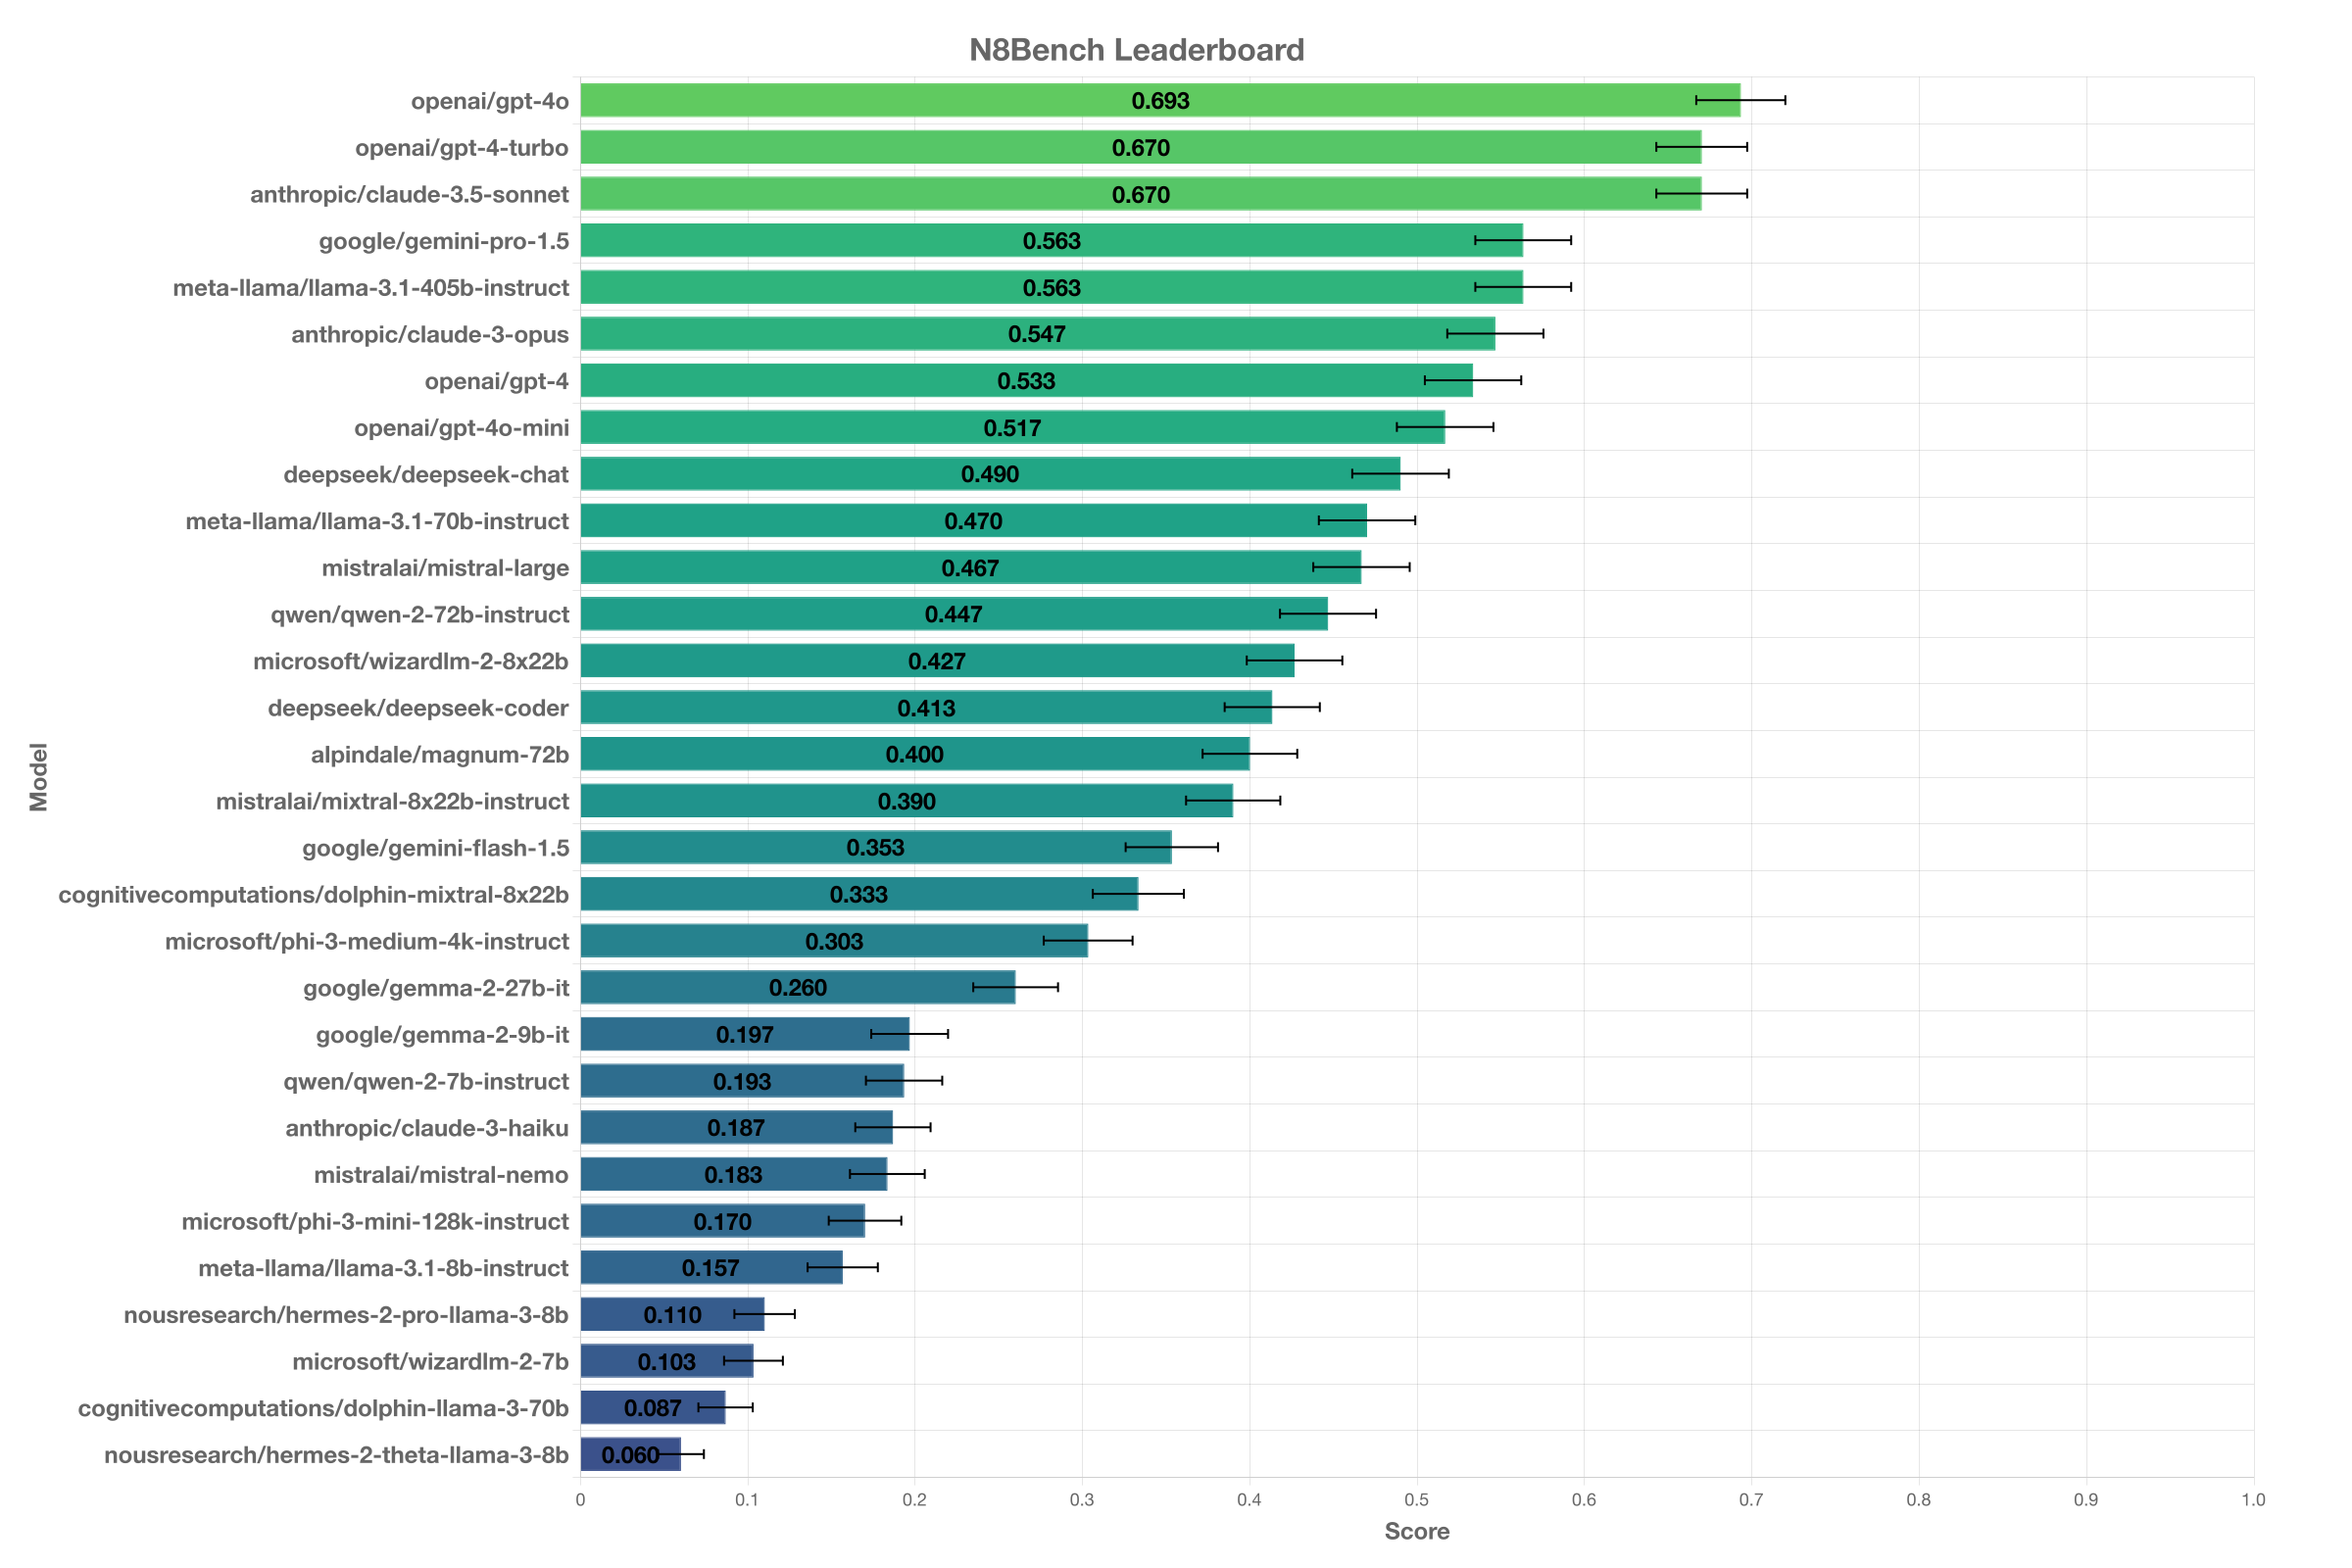
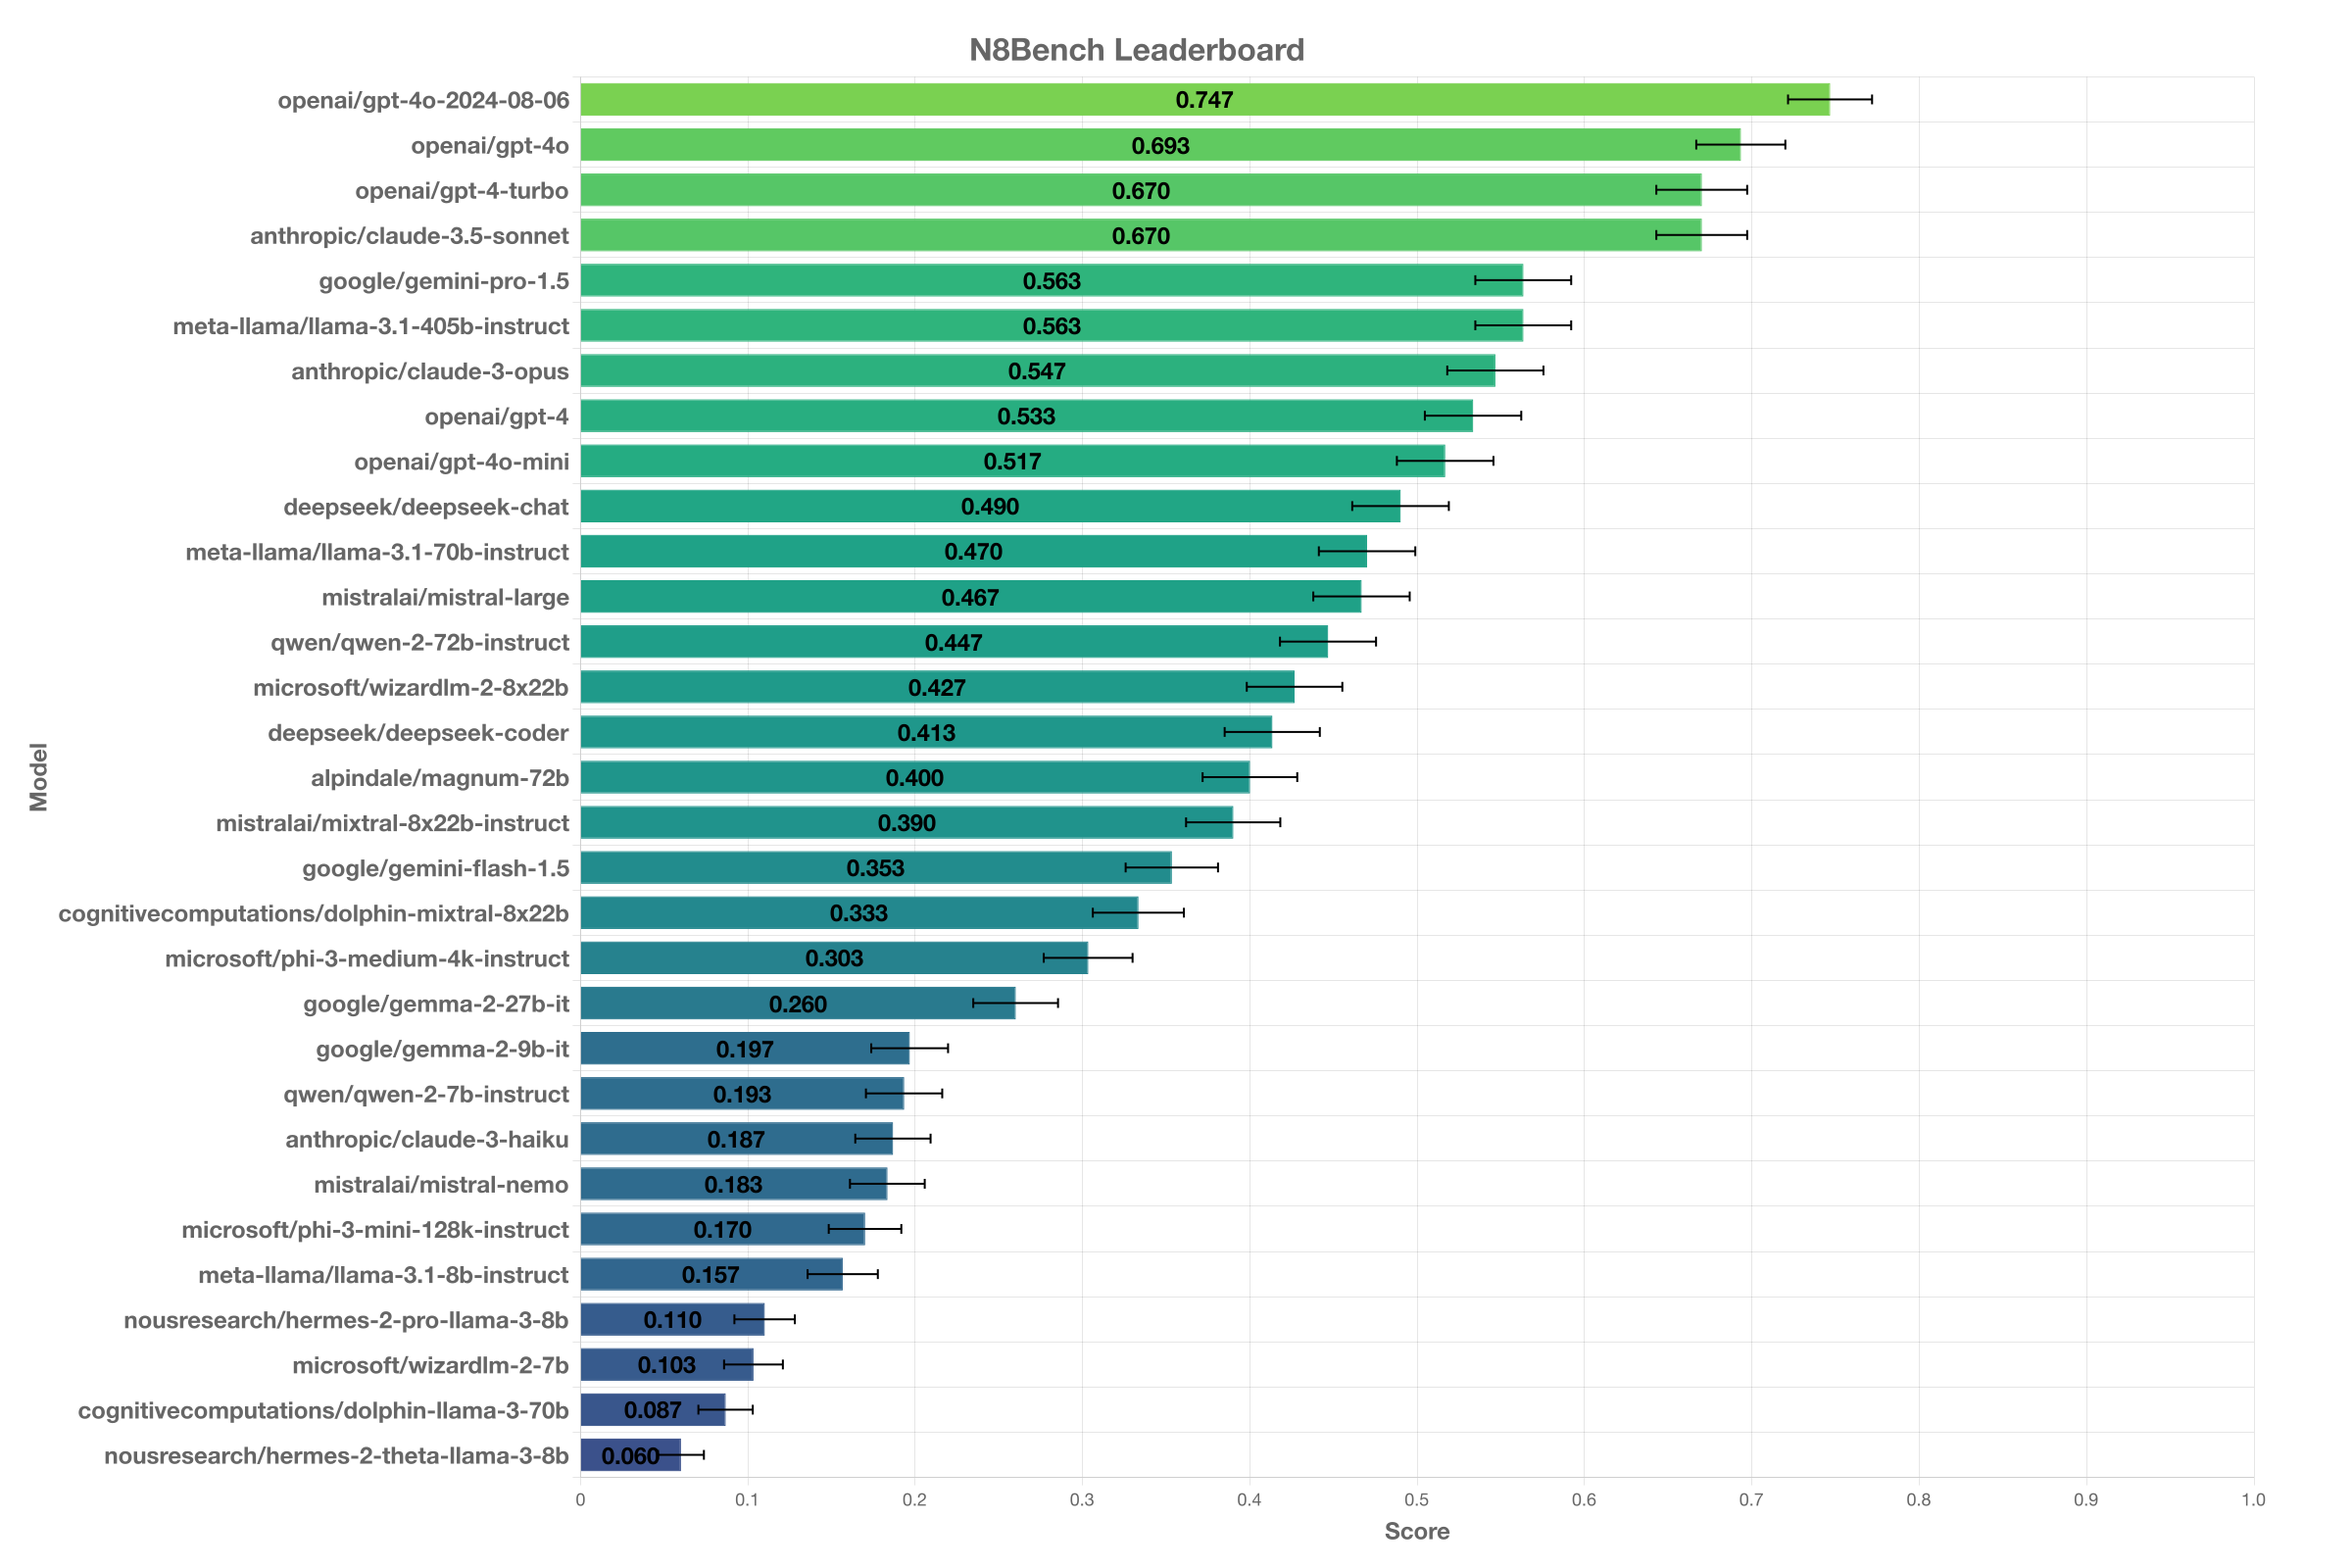
epic

Changed region(s): [[0.0312, 0.0312, 0.7812, 0.9375]]

diff --git a/index.js b/index.js
@@ -8,8 +8,8 @@ const openaiAccuracyReasoning = new OpenAI({
 });
 // For local evaluation, change to remote API if preferred
 const openaiReasoning = new OpenAI({
-    baseURL: "http://localhost:1234/v1",
-    apiKey: 'lm-studio'
+    apiKey: process.env.OPENAI_API_KEY,
+    baseURL: "https://openrouter.ai/api/v1/"
 });
 
 const NUM_ITERATIONS_PER_TASK = 1;
@@ -96,7 +96,7 @@ async function evalTask(taskNumber, models, accuracyReasoningModel) {
 
 }
 const models = [
-    "meta-llama/llama-3.1-8b-instruct"
+    "openai/gpt-4o-2024-08-06"
 ]
 const finalScores = Object.fromEntries(models.map(model => [model, []]));
 const addCorrespondingScores = (finalScores, model_results, c) => {
